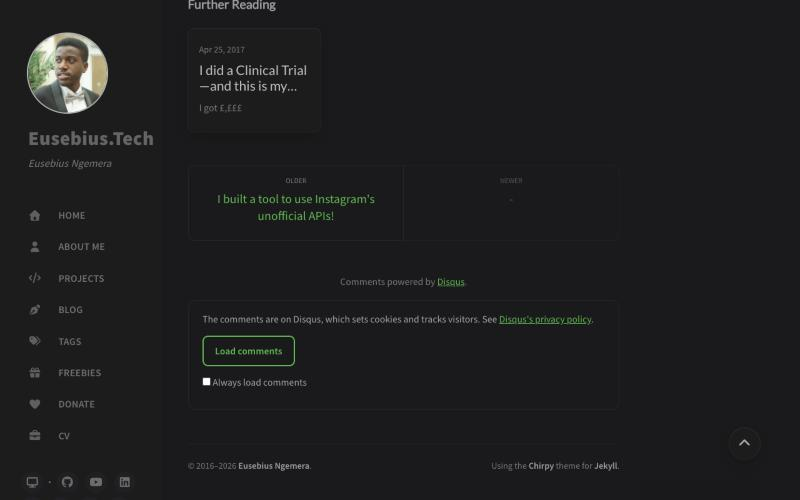
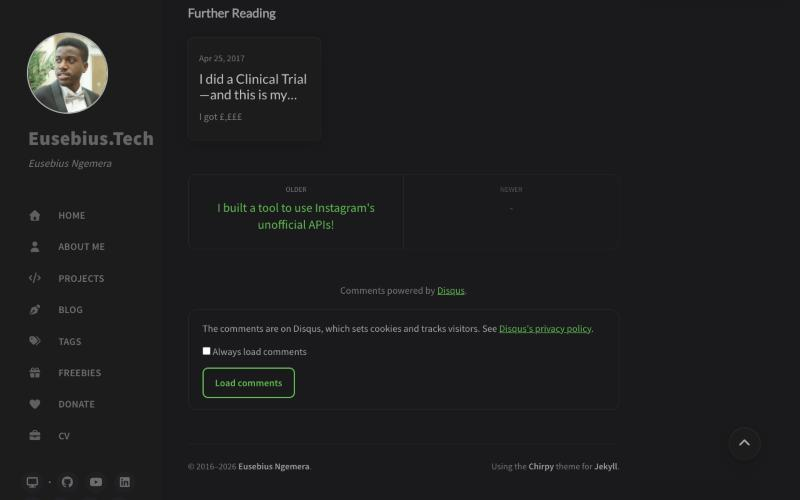
Keep focus and the comments choice in order, and stop overclaiming GA opt-out
A review pass found four problems with the last change.

The privacy policy told people that blocking cookies for the site stops Google
Analytics. It doesn't: GA4 still loads and sends page views without cookies,
so the policy now points to Google's opt-out add-on or a content blocker.

"Always load comments" sat under the "Load comments" button, but it only
counts if ticked before clicking, and clicking removes both. Anyone reading
top to bottom would click first and lose the choice, so the box now comes
first. The screenshots are retaken to match.

Both buttons removed themselves when clicked, dropping keyboard focus back to
the top of the page. Focus now moves to the comments after "Load comments",
and to the confirmation after "Ask before loading comments", which is also a
status message so screen readers announce it.

diff --git a/_ts/consent.ts b/_ts/consent.ts
@@ -76,9 +76,13 @@ export function setUp({ storage, doc = document }: Settings): void {
     // Below the comments, as Disqus replaces what's inside the thread
     const undo = doc.createElement('p');
     undo.className = 'consent-remember';
+    // Announced, and keeps keyboard focus, once the button it replaces is gone
+    undo.setAttribute('role', 'status');
+    undo.tabIndex = -1;
     const ask = button('Ask before loading comments', 'consent-link-button', () => {
       writeConsent(storage, { comments: 'denied' });
       undo.textContent = 'Comments will wait for a click from the next page on.';
+      undo.focus();
     });
     undo.append(ask);
     thread.after(undo);
@@ -120,9 +124,13 @@ export function setUp({ storage, doc = document }: Settings): void {
   const loadButton = button('Load comments', 'consent-button', () => {
     if (remember.checked) writeConsent(storage, { comments: 'granted' });
     placeholder.remove();
+    // The button is gone, so keyboard users carry on from the comments
+    thread.tabIndex = -1;
+    thread.focus();
     load();
   });
-  placeholder.append(text, loadButton, rememberRow);
+  // The box before the button, as clicking the button removes both
+  placeholder.append(text, rememberRow, loadButton);
   thread.append(placeholder);
 }
 

diff --git a/_ts/consent.test.ts b/_ts/consent.test.ts
@@ -95,6 +95,8 @@ describe('Disqus comments', () => {
     // Only this once, as "Always load comments" was left unticked
     expect(readConsent(localStorage)).toEqual({});
     expect(document.cookie).toBe('');
+    // Keyboard users carry on from the comments, not the top of the page
+    expect(document.activeElement).toBe(document.querySelector('#disqus_thread'));
   });
 
   it('loads on its own after "Always load comments", as the comments come into view', () => {
@@ -123,6 +125,7 @@ describe('Disqus comments', () => {
 
     buttonNamed('Ask before loading comments').click();
     expect(readConsent(localStorage)).toEqual({ comments: 'denied' });
+    expect(document.activeElement?.textContent).toContain('wait for a click');
 
     document.body.innerHTML = '';
     addThread();

diff --git a/css/site.css b/css/site.css
@@ -292,6 +292,9 @@ table.right-figures-3 tr :is(th, td):nth-of-type(n + 3) {
 .consent-comments p {
   margin-bottom: 0.75rem;
 }
+.consent-comments .consent-remember {
+  margin: 0 0 0.75rem;
+}
 .consent-button {
   min-height: 2.75rem; /* a comfortable tap target */
   padding: 0.375rem 1rem;

diff --git a/pages/privacy-policy.md b/pages/privacy-policy.md
@@ -21,15 +21,16 @@ they use. It loads on every page and sets the `_ga` and `_ga_ME9VJ7Y5RR` cookies
 which last up to two years. It sends Google your IP address and details of your
 browser and the pages you visit. See
 [how Google uses information from sites that use its services](https://policies.google.com/technologies/partner-sites).
-To stop it, block cookies for this site in your browser, or use Google's
-[opt-out browser add-on](https://tools.google.com/dlpage/gaoptout).
+Blocking cookies doesn't stop it sending this. To stop it, use Google's
+[opt-out browser add-on](https://tools.google.com/dlpage/gaoptout) or a content
+blocker.
 
 ### Disqus comments
 
 The comments under posts and projects are run by [Disqus](https://disqus.com/),
 which sets cookies and tracks visitors across the sites that use it. They load only
-when you choose **Load comments**. Tick **Always load comments** to have them load
-on every page without asking; **Ask before loading comments**, under the comments,
+when you choose **Load comments**. Tick **Always load comments** first to have them
+load on every page without asking; **Ask before loading comments**, under the comments,
 undoes that. See [Disqus's privacy policy](https://disqus.com/privacy-policy/).
 
 The site remembers **Always load comments** in your browser's local storage, under
